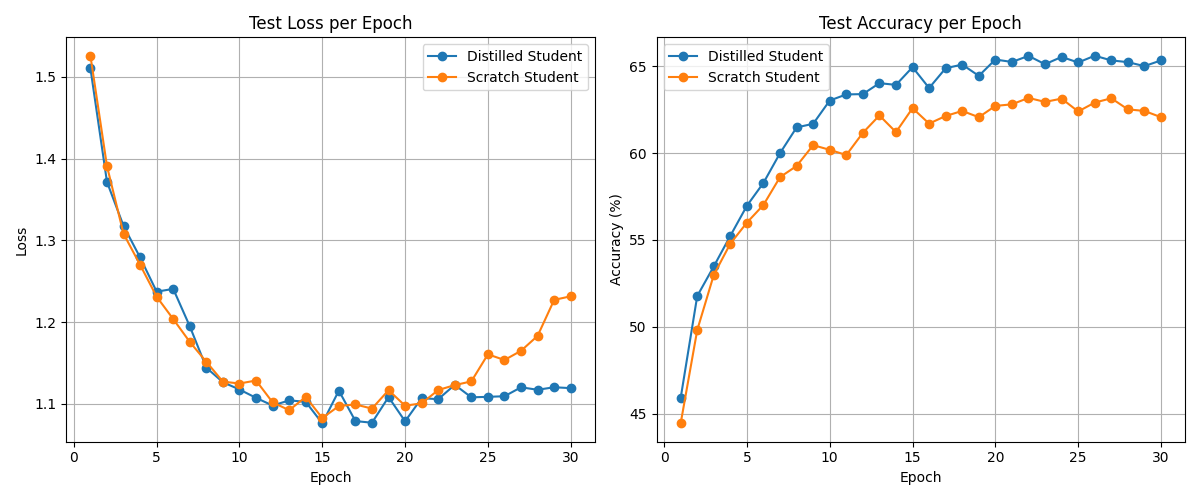
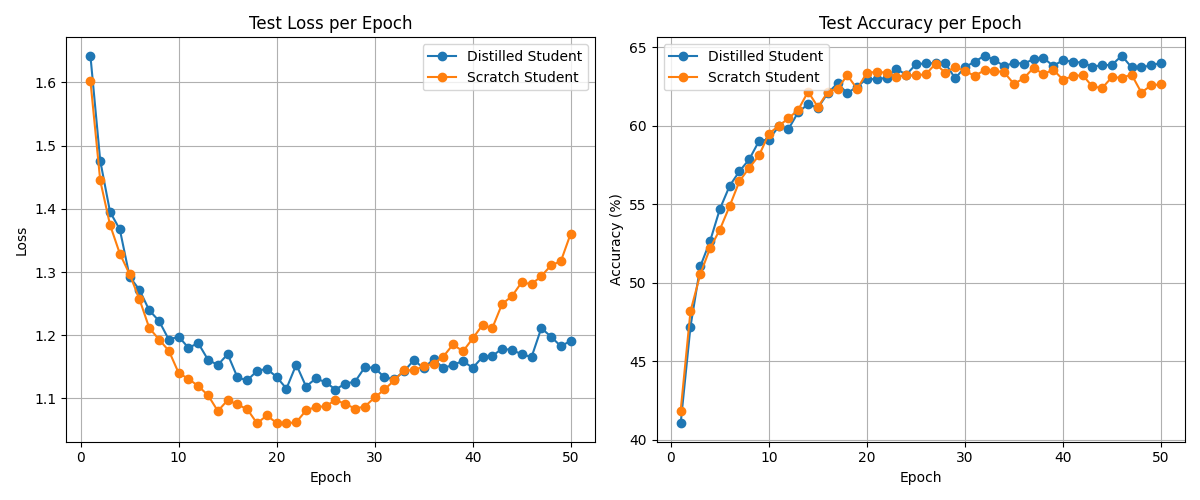
update

diff --git a/Advanced Deep Learning/knowledge_distillation.py b/Advanced Deep Learning/knowledge_distillation.py
@@ -107,7 +107,7 @@ def main():
     ])
     train_loader = torch.utils.data.DataLoader(
         datasets.CIFAR10('./data', train=True, download=True, transform=transform),
-        batch_size=128, shuffle=True
+        batch_size=256, shuffle=True
     )
     test_loader = torch.utils.data.DataLoader(
         datasets.CIFAR10('./data', train=False, transform=transform),
@@ -125,7 +125,7 @@ def main():
     # Distillation hyperparameters
     T = 5.0
     alpha = 0.7
-    epochs = 30
+    epochs = 50
 
     # Lists to track test loss and accuracy for each epoch
     epochs_list = []

diff --git a/Advanced Deep Learning/logs/log.md b/Advanced Deep Learning/logs/log.md
@@ -1,0 +1,12 @@
+# Optimizers
+Final Test Accuracy Comparison:
+SGD: 92.82%
+Adam: 98.88%
+RMSprop: 97.67%
+LBFGS: 98.04%
+
+# Knowledge distillation
+Final Test Results:
+Teacher Model (ResNet-18)   - Loss: 0.2528, Accuracy: 93.07%
+Distilled Student (LeNet-5) - Loss: 1.1914, Accuracy: 64.01%
+Scratch Student (LeNet-5)   - Loss: 1.3609, Accuracy: 62.64%
